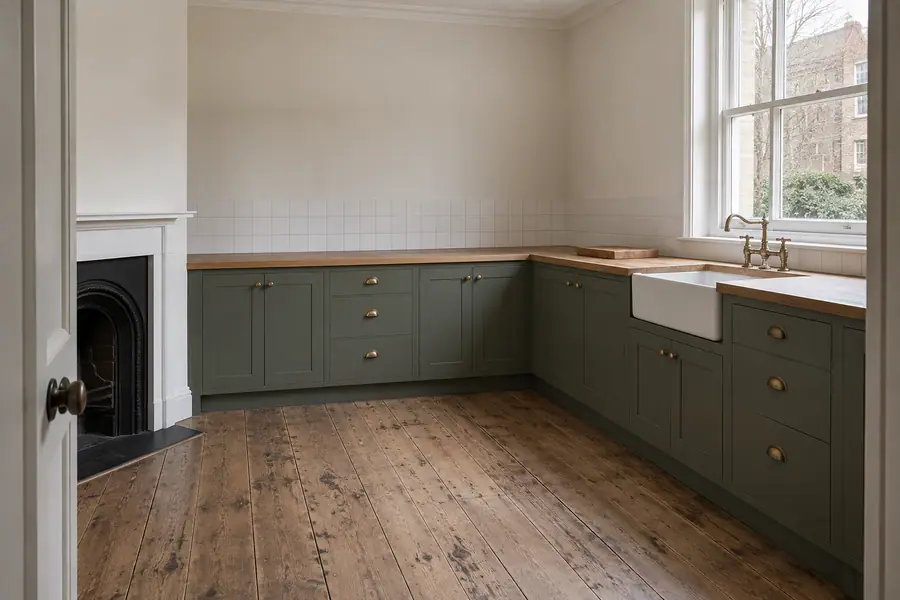
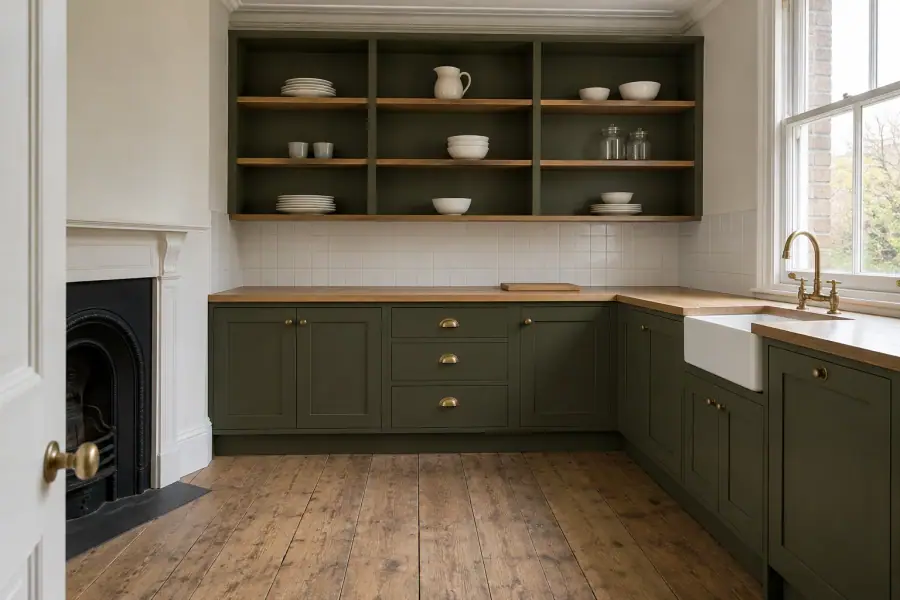
Kentish Town kitchen render: the upper wall finished with open shelving (Arthur, 21 Nov)
Arthur on the review link: with the oak shelf painted out, the top "looks empty ... unfinished", and
could read as the client choosing no upper cabinets or as where the scope stopped. Made again (Figma
node 59:4): the same olive-green Shaker L, now with an open shelving unit in the same green from the
tiles to the cornice, corner to corner, three oak shelves ending into matching end panels, plain
crockery only, no lighting, no plants. Same file name; alt text and visible description describe the
shelving and what is on it.

diff --git a/src/data/areas.ts b/src/data/areas.ts
@@ -350,6 +350,13 @@ export const AREAS: Area[] = [
        Islington", so it is replaced by an AI painted Shaker kitchen in a different room (Figma node
        57:9, file d0AWnKDiTyYDbBrrCsE4NS), made and checked to the render protocol (sections 5 and 8);
        an oak shelf that ran past the corner and was not level was painted off the plain wall.
+       21 Nov 2026, evening, Arthur on the review link: with the shelf gone the top "looks empty ...
+       unfinished", and could read as the client choosing no upper cabinets or as where the job's scope
+       stopped. Made again with the upper wall finished (Figma node 59:4, same file and protocol): an
+       open shelving unit in the base units' green, corner to corner from the tiles to the cornice,
+       three oak shelves ending into matching end panels, plain crockery only. Picked over 59:3 (its
+       left end panel ran down to the worktop, the right one did not), 59:5 (rows of identical upright
+       plates) and 59:2 (wall cupboards: clean, but Arthur asked for shelves). Same file name.
        The register's only other kitchens are live on the site already or marked not publishable.
        ssp-019 stays: it is a different view, but of the same May 2025 kitchen as Islington's ssp-051. */
     plates: [
@@ -359,7 +366,7 @@ export const AREAS: Area[] = [
         ai: true,
         width: 1536,
         height: 1024,
-        alt: "Painted Shaker kitchen in an L along two walls of a period room: deep olive-green doors in pairs with small round brass knobs, banks of drawers with brass cup handles, an oak worktop with a chopping board, and a white butler sink with a brass bridge tap under the sash window. A white fireplace with a black cast-iron insert stands on the left.",
+        alt: "Painted Shaker kitchen in an L along two walls of a period room: deep olive-green doors with small round brass knobs, a bank of drawers with brass cup handles, an oak worktop with a chopping board, and a white butler sink with a brass bridge tap under the sash window. Above the white tiles, an open shelving unit in the same green runs up to the cornice, its oak shelves holding white plates and bowls, two grey cups, a cream jug and two glass jars. A white fireplace with a black cast-iron insert stands on the left.",
       },
       {
         file: "/images/library/ssp-019.webp",
